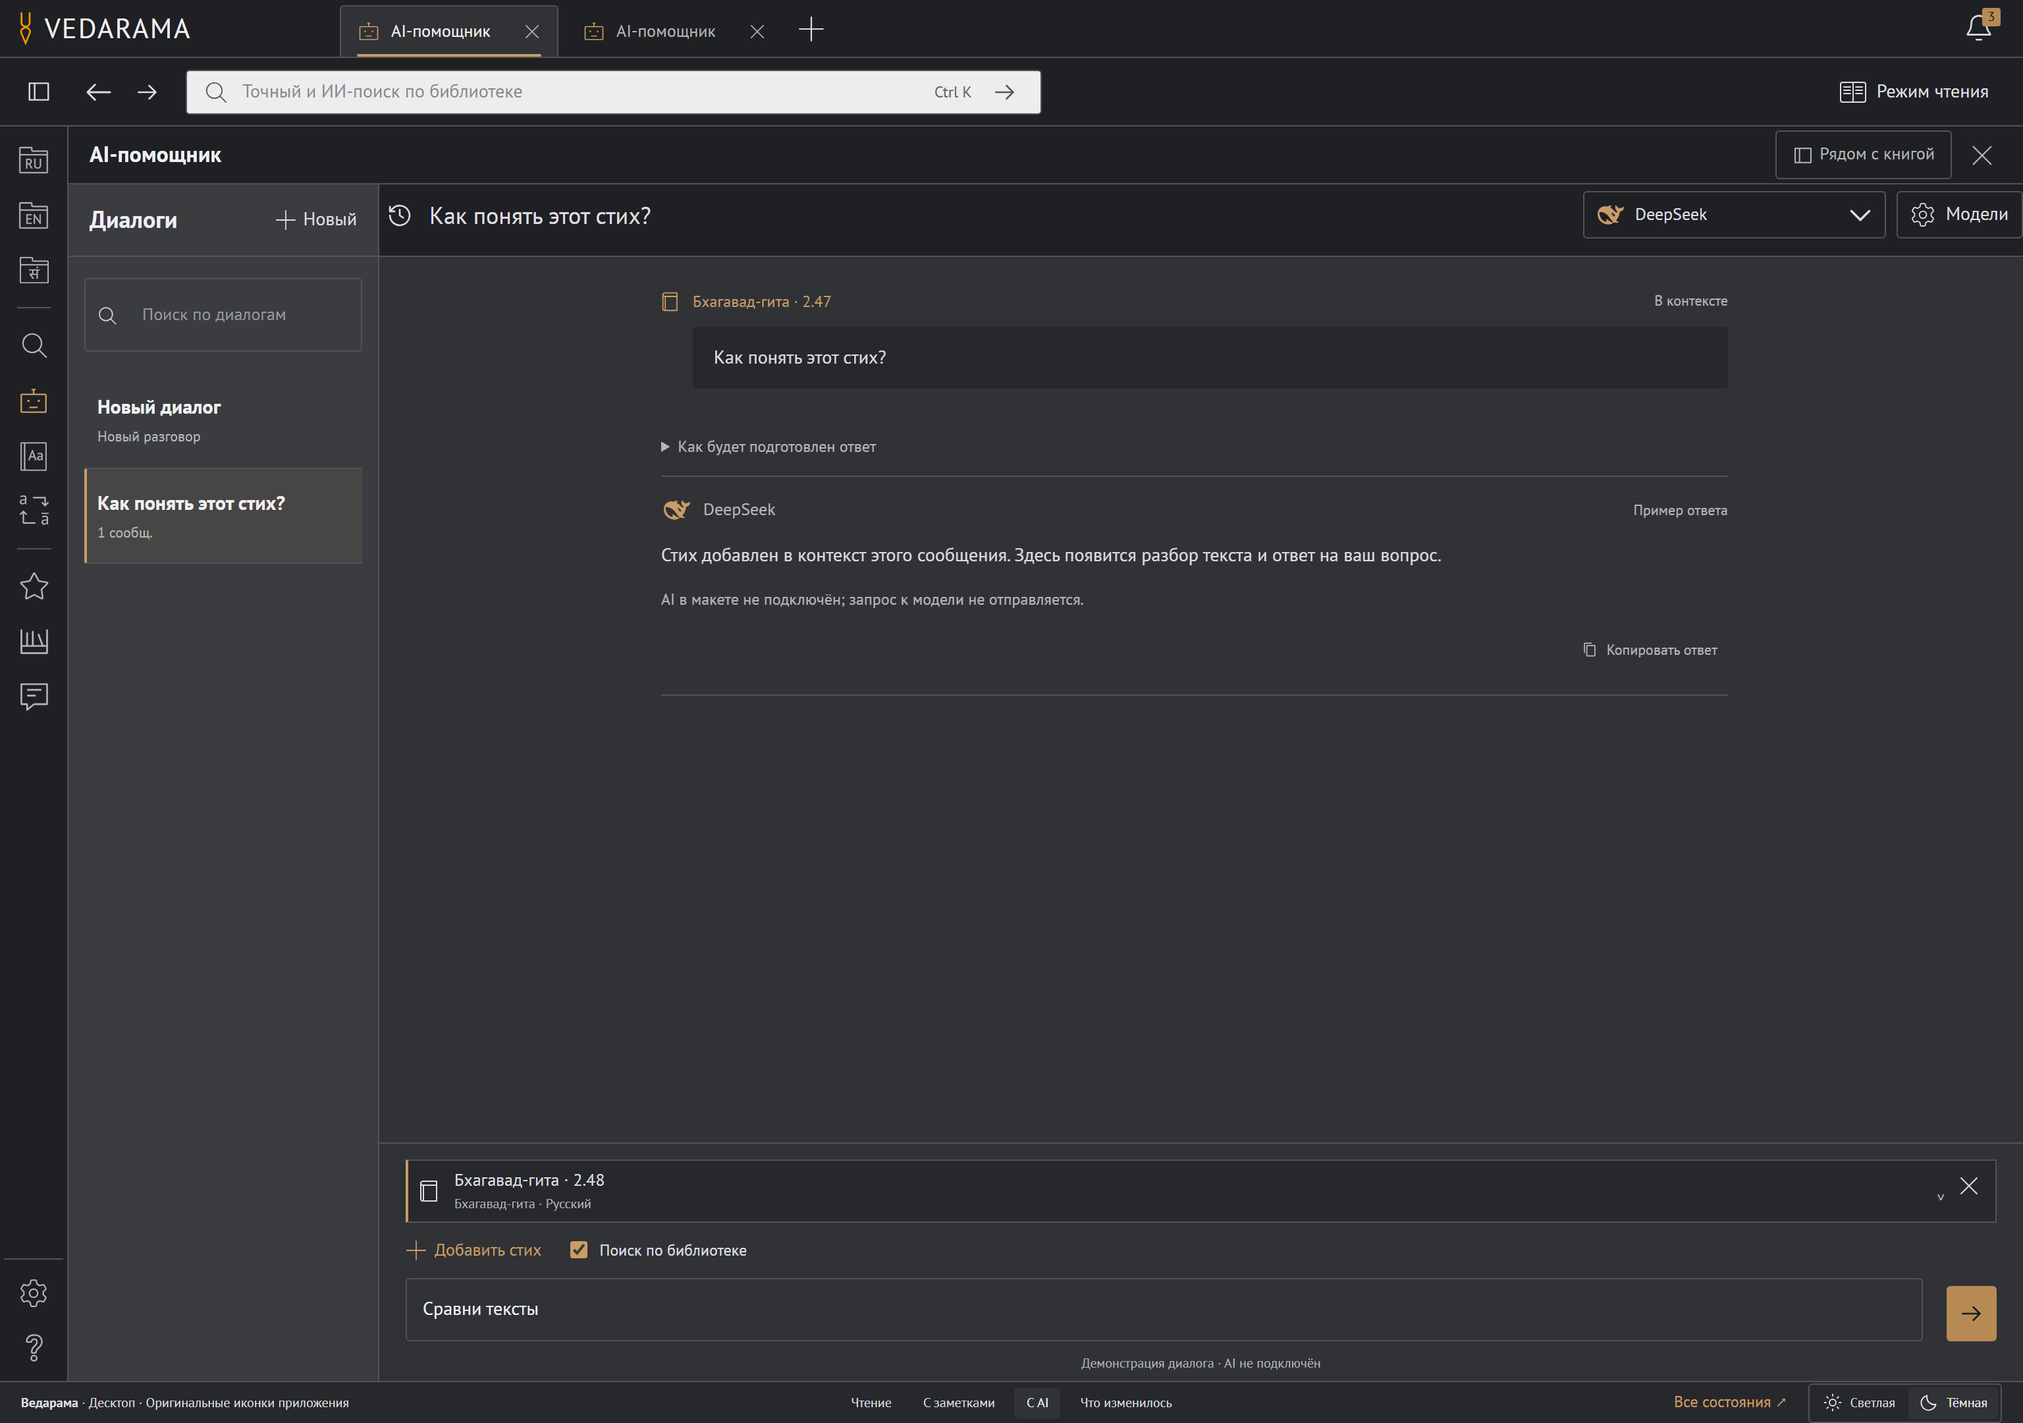
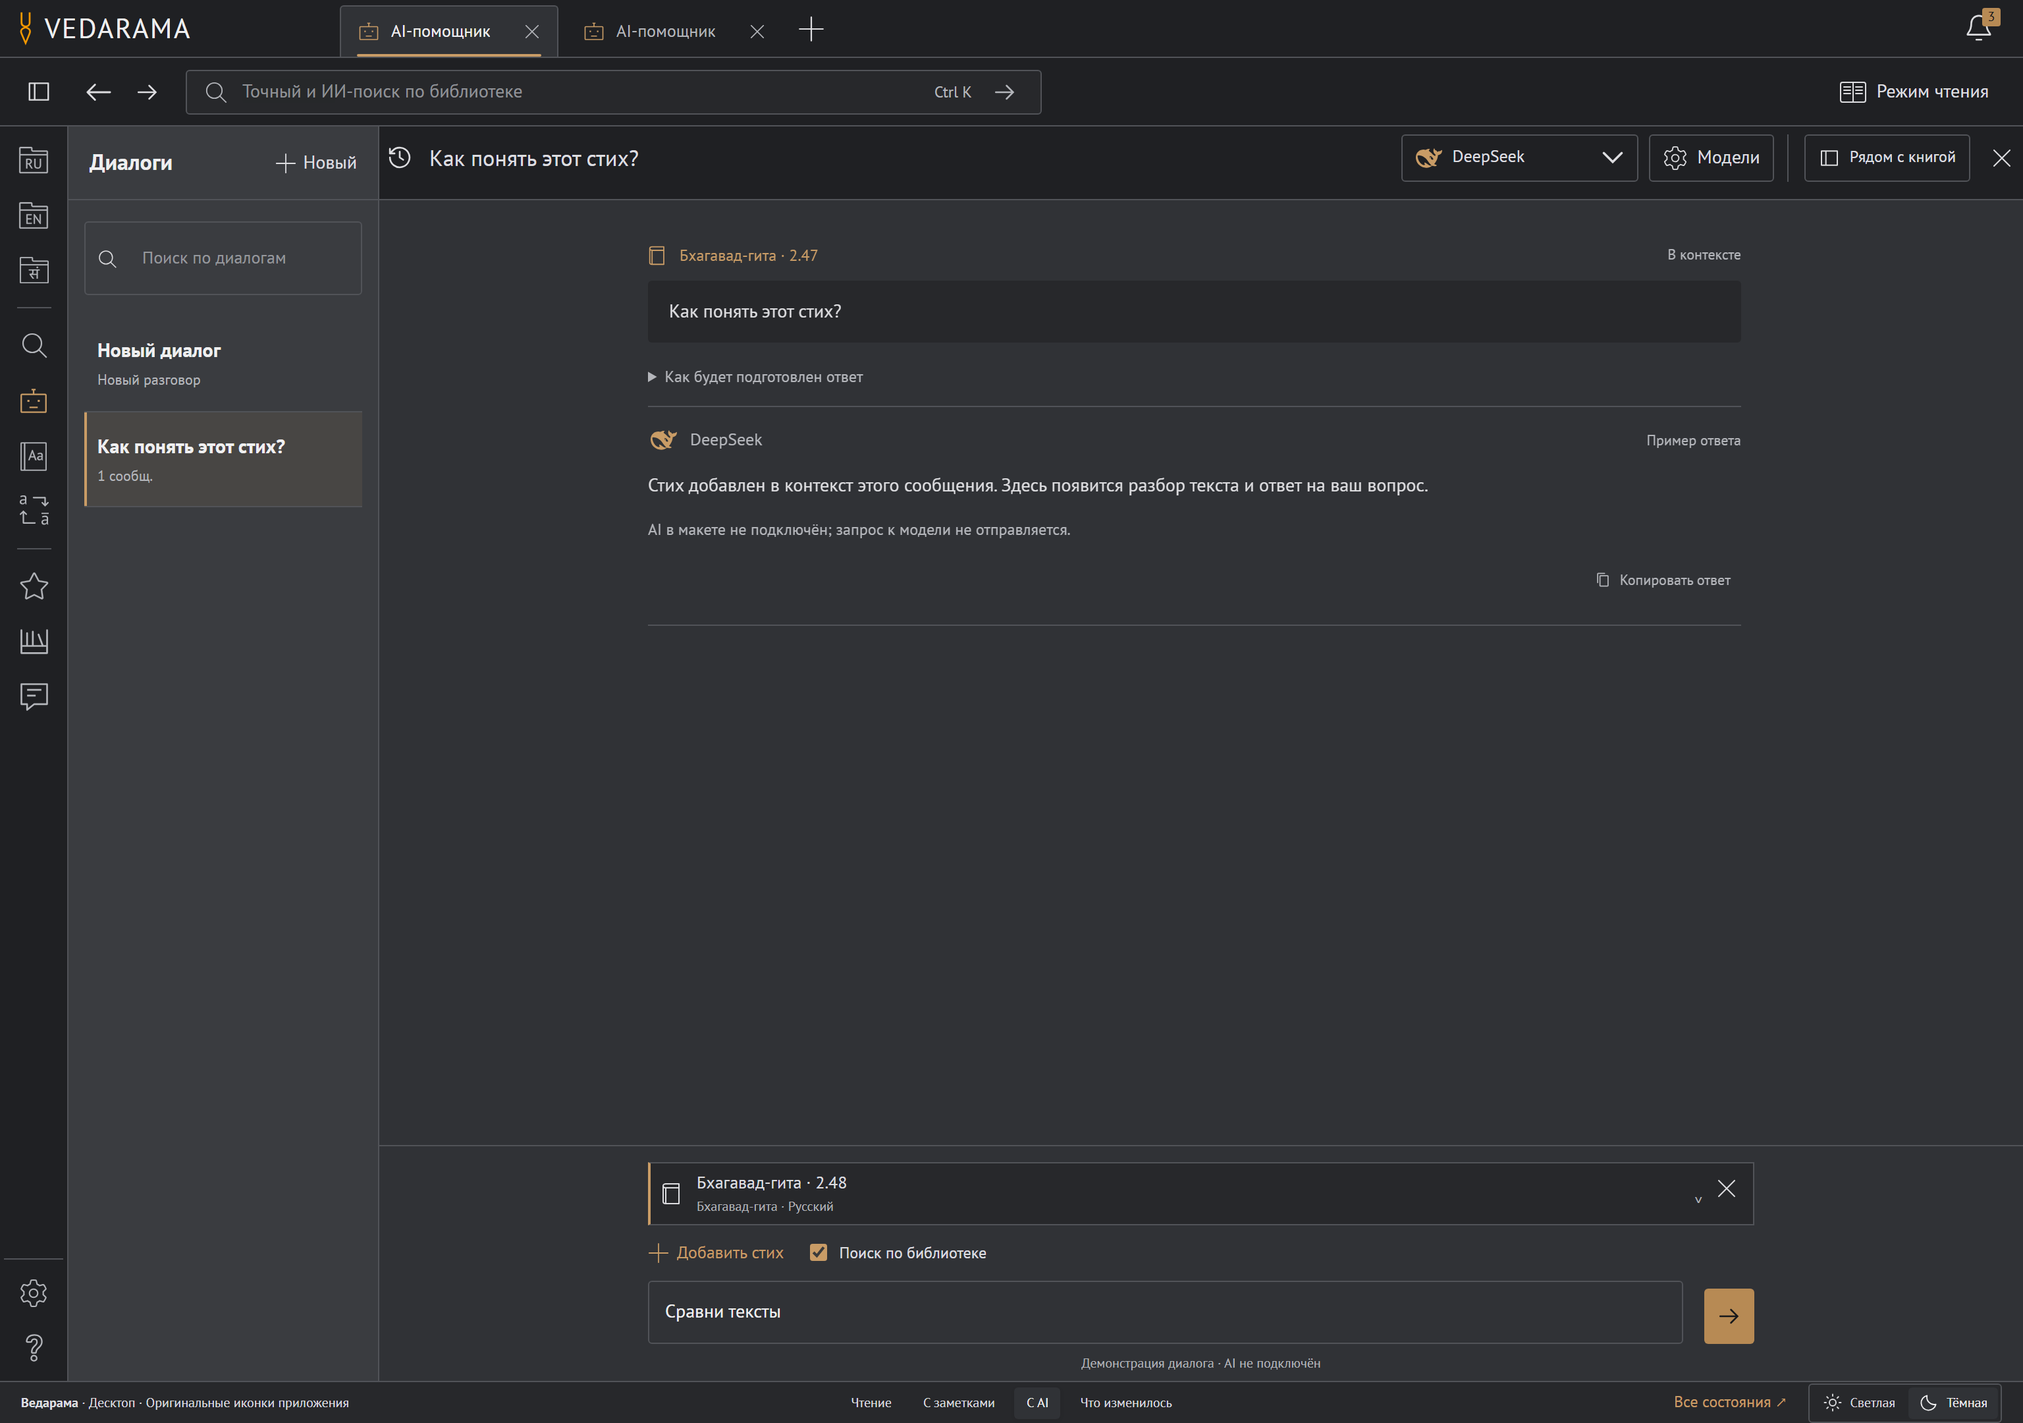
Align desktop AI header, model settings and reader tools

diff --git a/mockups/desktop-native-icons-v1/desktop-polish.css b/mockups/desktop-native-icons-v1/desktop-polish.css
@@ -1,0 +1,69 @@
+/* Shared alignment rules for chat, model management and reading actions. */
+.native-chat-heading-hidden{display:none!important}
+.native-chat-main .chat-model-bar{height:56px;min-height:56px;flex-shrink:0;padding:8px 20px;gap:10px}
+.native-chat-main .chat-model-bar>button{height:36px;min-height:36px}
+.native-chat-main #chat-model-picker{flex:0 1 180px;max-width:180px;min-width:125px;height:36px;min-height:36px}
+#manage-chat-models.native-models-button{height:36px;min-height:36px}
+.native-chat-view-actions{display:flex;align-items:center;gap:8px;padding-left:12px;margin-left:2px;border-left:1px solid var(--stroke);flex-shrink:0}
+.native-chat-view-actions[hidden]{display:none}
+.native-chat-view-actions #tool-mode{display:flex;gap:7px;align-items:center;height:36px;min-height:36px;padding:6px 10px;font-size:12px;white-space:nowrap}
+.native-chat-view-actions #tool-mode svg{width:16px;height:16px}
+.native-chat-view-actions #tool-close{width:32px;height:36px;min-height:36px;margin:0;padding:7px}
+.native-chat-view-actions #tool-close svg{width:18px;height:18px}
+#native-dialog-title{font-size:17px;line-height:24px}
+.native-dialogs header{height:56px;min-height:56px;padding:8px 16px}
+.native-dialogs h3{font-size:17px}
+.tool-page .native-chat-main #ai-scroll{padding:28px max(28px,calc((100% - 840px)/2)) 20px}
+.tool-page .native-chat-main #ai-form{padding:12px max(28px,calc((100% - 840px)/2)) 8px;gap:8px 16px}
+.native-chat-main .ai-intro{padding:0 0 22px}
+.native-chat-main .ai-intro h2{font-size:21px;line-height:1.4}
+.native-chat-main .suggestions button{font-size:16px;padding:16px 0;min-height:52px}
+.native-chat-main #ai-form textarea{flex-basis:calc(100% - 54px)}
+.native-chat-main #ai-form>label{min-height:24px}
+.native-chat-main .question-bubble{margin:0}
+.native-chat-main #native-attachments{align-items:stretch}
+#workspace-panel:has(.models-layout){padding:32px max(28px,calc((100% - 1180px)/2)) 40px}
+#workspace-panel:has(.models-layout)>.workspace-heading{display:grid;grid-template-columns:minmax(0,1fr) auto;column-gap:24px;row-gap:12px;align-items:start;margin:0 0 28px;padding:0;max-width:none}
+#workspace-panel:has(.models-layout) .workspace-heading>div:first-child{grid-row:1/3;min-width:0}
+#workspace-panel:has(.models-layout) .workspace-heading h1{font-size:26px;line-height:1.25;margin:8px 0 10px}
+#workspace-panel:has(.models-layout) .workspace-heading p{font-size:14px;line-height:1.5;margin:0;max-width:600px}
+#workspace-panel:has(.models-layout) .workspace-heading>.models-return{grid-column:2;grid-row:1;justify-self:end;min-height:34px;height:34px;font-size:13px;padding:6px 10px}
+#workspace-panel:has(.models-layout) .workspace-heading>.models-guide-button{grid-column:2;grid-row:2;justify-self:end;min-height:30px;height:30px;border:0;font-size:12px;padding:4px 0;color:var(--gold-dark)}
+#workspace-panel:has(.models-layout) .workspace-heading>button svg{width:18px;height:18px}
+#workspace-panel .models-layout{grid-template-columns:260px minmax(0,1fr);gap:24px;max-width:none}
+.models-list-title{height:34px;margin-bottom:12px}.models-list-title h2{font-size:16px;margin:0}
+.models-list-title .icon-button{height:32px;width:32px;padding:6px}
+.models-list .connection-card{padding:14px;gap:12px;margin-bottom:10px}
+.models-list .connection-card strong{font-size:15px}.models-list .connection-card small{font-size:11px}
+.models-layout .model-editor{padding:24px}
+.model-editor .model-editor-heading{margin-bottom:20px}.model-editor .model-editor-heading h2{font-size:20px;margin:8px 0 0}
+.model-editor .model-guide-callout{display:none}
+.reading-toolbar .reader-actions{display:flex;align-items:center;gap:6px}
+.reading-toolbar .reader-actions>button{display:inline-flex;align-items:center;justify-content:center;gap:8px;height:36px;min-height:36px;margin:0;padding:6px 10px;line-height:20px;font-size:13px;color:var(--secondary)}
+.reading-toolbar .reader-actions>#bookmark{width:36px;padding:6px}
+.reader-actions>button>i,.reader-actions>button>.aa{display:inline-flex;align-items:center;justify-content:center;width:24px;height:24px;flex:0 0 24px;line-height:1}
+.reading-toolbar .reader-actions svg.desktop-app-icon[data-desktop-icon=favorites]{width:26px;height:26px}
+.reading-toolbar .reader-actions svg.desktop-app-icon[data-desktop-icon=note]{width:22px;height:22px}
+.reading-toolbar .reader-actions svg.desktop-app-icon[data-desktop-icon=ai]{width:24px;height:24px}
+.reading-toolbar .reader-actions .aa svg.desktop-app-icon{width:22px;height:22px}
+.reader-actions svg[data-desktop-icon=ai] g[stroke-width]{stroke-width:1.25}
+.reading-toolbar .reader-actions .count{display:inline-flex;align-items:center;justify-content:center;min-width:16px;height:18px;padding:0 3px;margin:0;line-height:1;font-size:11px;vertical-align:middle}
+.reading-toolbar .reader-actions>button[aria-pressed=true]{color:var(--gold-dark)}
+@media(max-width:1200px){
+ .native-chat-view-actions #tool-mode{padding:6px;gap:5px;font-size:11px}
+ .native-chat-view-actions{padding-left:8px;gap:4px;margin:0}
+ .native-chat-main .chat-model-bar{padding:8px 14px;gap:8px}
+ #native-dialog-title{font-size:15px}
+ #workspace-panel .models-layout{grid-template-columns:230px minmax(0,1fr);gap:20px}
+}
+@media(max-width:1050px){.tool-page #manage-chat-models.native-models-button span{display:none}.tool-page #manage-chat-models.native-models-button{width:36px;padding:8px}.tool-page .native-chat-main #chat-model-picker{flex-basis:150px;min-width:120px}.native-chat-view-actions #tool-mode span{max-width:96px;white-space:normal}}
+@media(max-height:560px){
+ .native-chat-main .chat-model-bar,.native-dialogs header{height:44px;min-height:44px;padding-top:4px;padding-bottom:4px}
+ .tool-page .native-chat-main #ai-scroll{padding-top:14px}
+ .tool-page .native-chat-main #ai-form{padding-top:6px;padding-bottom:6px;gap:4px 16px}
+ .native-chat-main #ai-form>label{min-height:20px}
+}
+
+html[data-theme=dark] .global-search{background:var(--panel-soft);color:var(--ink)}
+html[data-theme=dark] .global-search input{color:var(--ink)}
+html[data-theme=dark] .global-search input::placeholder,html[data-theme=dark] .global-search svg,html[data-theme=dark] .global-search kbd{color:var(--secondary)}

diff --git a/mockups/desktop-native-icons-v1/index.html b/mockups/desktop-native-icons-v1/index.html
@@ -1,5 +1,5 @@
 <!doctype html>
-<html lang="ru"><head><meta charset="utf-8"><meta name="viewport" content="width=device-width,initial-scale=1"><title>Ведарама — вариант с иконками десктопного приложения</title><link rel="icon" href="assets/logo2-tilak.svg"><link rel="stylesheet" href="light.css?v=1.3"><link rel="stylesheet" href="refinements.css?v=1.3"><link rel="stylesheet" href="experience.css?v=1.3"><link rel="stylesheet" href="navigation.css?v=1.3"><link rel="stylesheet" href="models.css?v=1.3"><link rel="stylesheet" href="search.css?v=1.3"><link rel="stylesheet" href="updates.css?v=1.3"><link rel="stylesheet" href="selects.css?v=1.3"><link rel="stylesheet" href="tabs.css?v=1.3"><link rel="stylesheet" href="scrollbars.css?v=1.3"><link rel="stylesheet" href="layout.css?v=1.3"><link rel="stylesheet" href="continuous-reader.css?v=1.3"><link rel="stylesheet" href="theme-picker.css?v=1.3"><link rel="stylesheet" href="faithful.css?v=1.3"><link rel="stylesheet" href="desktop-icons.css?v=1.3"><link rel="stylesheet" href="ai-native.css?v=1.3"></head>
+<html lang="ru"><head><meta charset="utf-8"><meta name="viewport" content="width=device-width,initial-scale=1"><title>Ведарама — вариант с иконками десктопного приложения</title><link rel="icon" href="assets/logo2-tilak.svg"><link rel="stylesheet" href="light.css?v=1.4"><link rel="stylesheet" href="refinements.css?v=1.4"><link rel="stylesheet" href="experience.css?v=1.4"><link rel="stylesheet" href="navigation.css?v=1.4"><link rel="stylesheet" href="models.css?v=1.4"><link rel="stylesheet" href="search.css?v=1.4"><link rel="stylesheet" href="updates.css?v=1.4"><link rel="stylesheet" href="selects.css?v=1.4"><link rel="stylesheet" href="tabs.css?v=1.4"><link rel="stylesheet" href="scrollbars.css?v=1.4"><link rel="stylesheet" href="layout.css?v=1.4"><link rel="stylesheet" href="continuous-reader.css?v=1.4"><link rel="stylesheet" href="theme-picker.css?v=1.4"><link rel="stylesheet" href="faithful.css?v=1.4"><link rel="stylesheet" href="desktop-icons.css?v=1.4"><link rel="stylesheet" href="ai-native.css?v=1.4"><link rel="stylesheet" href="desktop-polish.css?v=1.4"></head>
 <body>
 <div class="review-bar"><span><b>Ведарама</b> ·  Макет 05</span><nav aria-label="Состояния макета"><button data-view="read">Чтение</button><button data-view="notes">С заметками</button><button data-view="ai">С AI</button><button data-dialog="brief">Что изменилось</button></nav><div class="preview-controls"><a class="mobile-preview-link" href="gallery.html">Мобильный вид ↗</a><div class="theme-switch" role="group" aria-label="Тема макета"><button data-theme="light" aria-label="Светлая тема">☀ <span>Светлая</span></button><button data-theme="dark" aria-label="Тёмная тема">☾ <span>Тёмная</span></button></div></div></div>
 <div class="application">
@@ -14,4 +14,4 @@
 </div></div>
 <nav class="mobile-nav" aria-label="Основная навигация"><button data-mobile="catalog"><i data-icon="folder"></i><span>Каталог</span></button><button data-mobile="read" class="active"><i data-icon="book"></i><span>Читать</span></button><button data-mobile="references"><i data-icon="search"></i><span>Справочники</span></button><button data-mobile="saved"><i data-icon="bookmark"></i><span>Моё</span></button><button data-mobile="ai"><i data-icon="spark"></i><span>AI</span></button></nav><div class="toast" role="status" hidden></div><div id="selection-actions" hidden><button id="annotate-selection"><i data-icon="note"></i>Заметка к выделению</button></div>
 <dialog id="dialog"><div class="dialog-heading"><h2 id="dialog-title"></h2><button class="icon-button" id="close-dialog" aria-label="Закрыть"><i data-icon="close"></i></button></div><div id="dialog-body"></div></dialog>
-<script src="light.js?v=1.3"></script><script src="refinements.js?v=1.3"></script><script src="experience.js?v=1.3"></script><script src="navigation.js?v=1.3"></script><script src="models.js?v=1.3"></script><script src="search.js?v=1.3"></script><script src="model-guide.js?v=1.3"></script><script src="updates.js?v=1.3"></script><script src="selects.js?v=1.3"></script><script src="continuous-reader.js?v=1.3"></script><script src="ai-native.js?v=1.3"></script><script src="tabs.js?v=1.3"></script><script src="layout.js?v=1.3"></script><script src="theme-picker.js?v=1.3"></script><script src="native-icons.js?v=1.3"></script><script src="faithful.js?v=1.3"></script><script src="desktop-controls.js?v=1.3"></script><script src="desktop-icon-data.js?v=1.3"></script><script src="desktop-icons.js?v=1.3"></script></body></html>
+<script src="light.js?v=1.4"></script><script src="refinements.js?v=1.4"></script><script src="experience.js?v=1.4"></script><script src="navigation.js?v=1.4"></script><script src="models.js?v=1.4"></script><script src="search.js?v=1.4"></script><script src="model-guide.js?v=1.4"></script><script src="updates.js?v=1.4"></script><script src="selects.js?v=1.4"></script><script src="continuous-reader.js?v=1.4"></script><script src="ai-native.js?v=1.4"></script><script src="tabs.js?v=1.4"></script><script src="layout.js?v=1.4"></script><script src="theme-picker.js?v=1.4"></script><script src="native-icons.js?v=1.4"></script><script src="faithful.js?v=1.4"></script><script src="desktop-controls.js?v=1.4"></script><script src="desktop-icon-data.js?v=1.4"></script><script src="desktop-icons.js?v=1.4"></script><script src="desktop-polish.js?v=1.4"></script></body></html>

diff --git a/mockups/desktop-native-icons-v1/desktop-polish.js b/mockups/desktop-native-icons-v1/desktop-polish.js
@@ -1,0 +1,17 @@
+// Keep the same controls and handlers when moving between a full chat and a book panel.
+(() => {
+ const heading=$('.inspector-tabs'),bar=$('.chat-model-bar');
+ const actions=document.createElement('div');actions.className='native-chat-view-actions';
+ bar.append(actions);
+ function arrange(){
+  const page=view==='ai'&&toolMode==='page'&&document.body.classList.contains('tool-page');
+  const parent=page?actions:heading;
+  for(const id of ['tool-mode','tool-close']){const node=$('#'+id);if(node.parentElement!==parent)parent.append(node);}
+  heading.classList.toggle('native-chat-heading-hidden',page);
+  actions.hidden=!page;
+  drawIcons(parent);
+ }
+ const previousSync=syncNavigation;
+ syncNavigation=function(){previousSync();arrange();};
+ arrange();
+})();

diff --git a/mockups/desktop-native-icons-v1/design-notes.md b/mockups/desktop-native-icons-v1/design-notes.md
@@ -28,3 +28,12 @@
 Проверено: 18 сценариев контекста, диалогов и логотипов, 15 основных сценариев макета и 20 проверок низкого окна. Галерея содержит 22 состояния, включая светлый и тёмный чат, выбор DeepSeek, вложение стиха и окно 1024 × 420. AI остаётся демонстрационным, сетевые запросы к моделям не выполняются.
 
 Все логотипы LLM используют единый тематический золотистый цвет, как в десктопе: в селекторе, сообщениях, подключениях и поиске. Фирменные разноцветные заливки убраны.
+
+
+## Обновление 1.4 — исправление композиции
+
+У полной страницы AI одна шапка: история, название диалога, модель и действия. При возврате к книге кнопки режима и закрытия перемещаются в заголовок боковой панели, сохраняя обработчики. Переписка и поле ввода имеют общую ширину и отступы.
+
+Страница моделей ограничена по ширине: заголовок, список и форма выровнены; возврат и помощь собраны справа, дублирующая инструкция в форме скрыта. У инструментов чтения общая высота, центровка и расстояния; скорректирован оптический размер пиктограмм. Общий поиск использует тёмные цвета в тёмной теме.
+
+Визуально проверены экраны 1920 × 1080, 1280 × 720 и 1024 × 600, история открыта/закрыта, полный чат и боковая панель, светлая и тёмная темы, увеличенный снимок инструментов чтения. Пройдены 7 проверок компоновки и 33 проверки основных функций и контекста AI.
